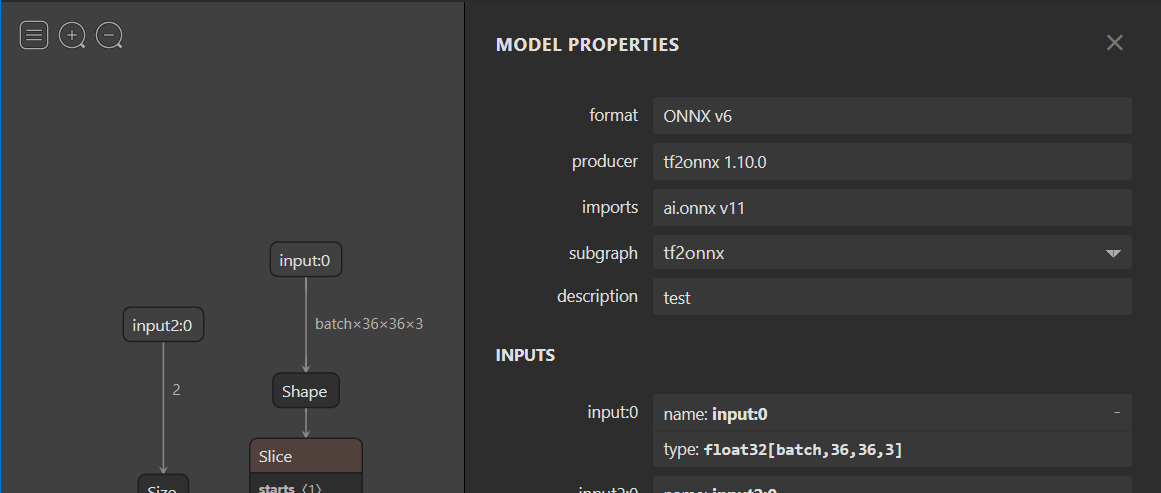
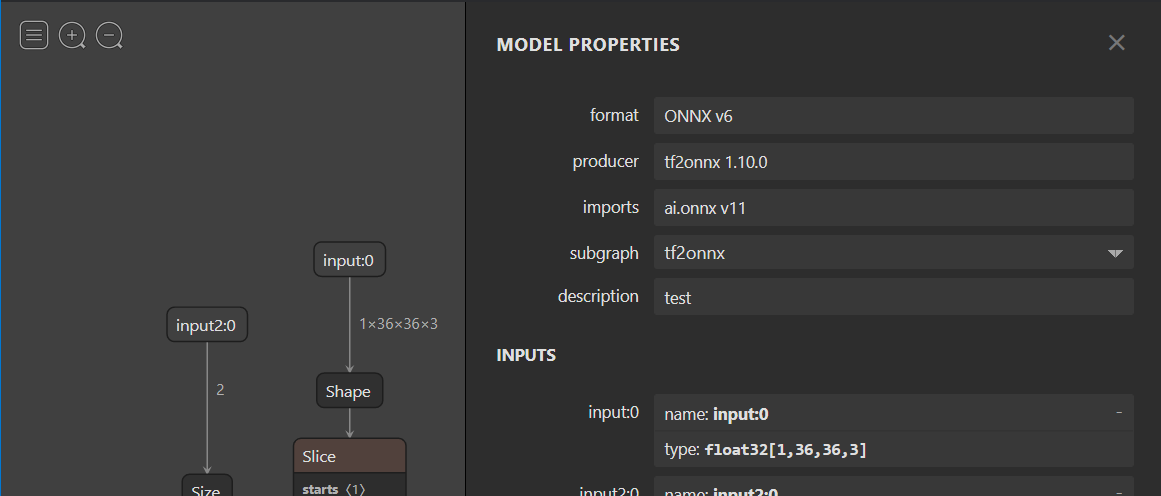
Fix image. Tweak text.

diff --git a/docs/tutorials/mobile/helpers/make-dynamic-shape-fixed.md b/docs/tutorials/mobile/helpers/make-dynamic-shape-fixed.md
@@ -48,7 +48,7 @@ To determine the update required by the model, it's generally helpful to view th
 
 ## Making a symbolic dimension fixed
 
-Here is an example model with a symbolic dimension called 'batch' for the batch size in 'input:0'. 
+Here is an example model, viewed using Netron, with a symbolic dimension called 'batch' for the batch size in 'input:0'. 
 We will update that to use the fixed value of 1.
 
 
